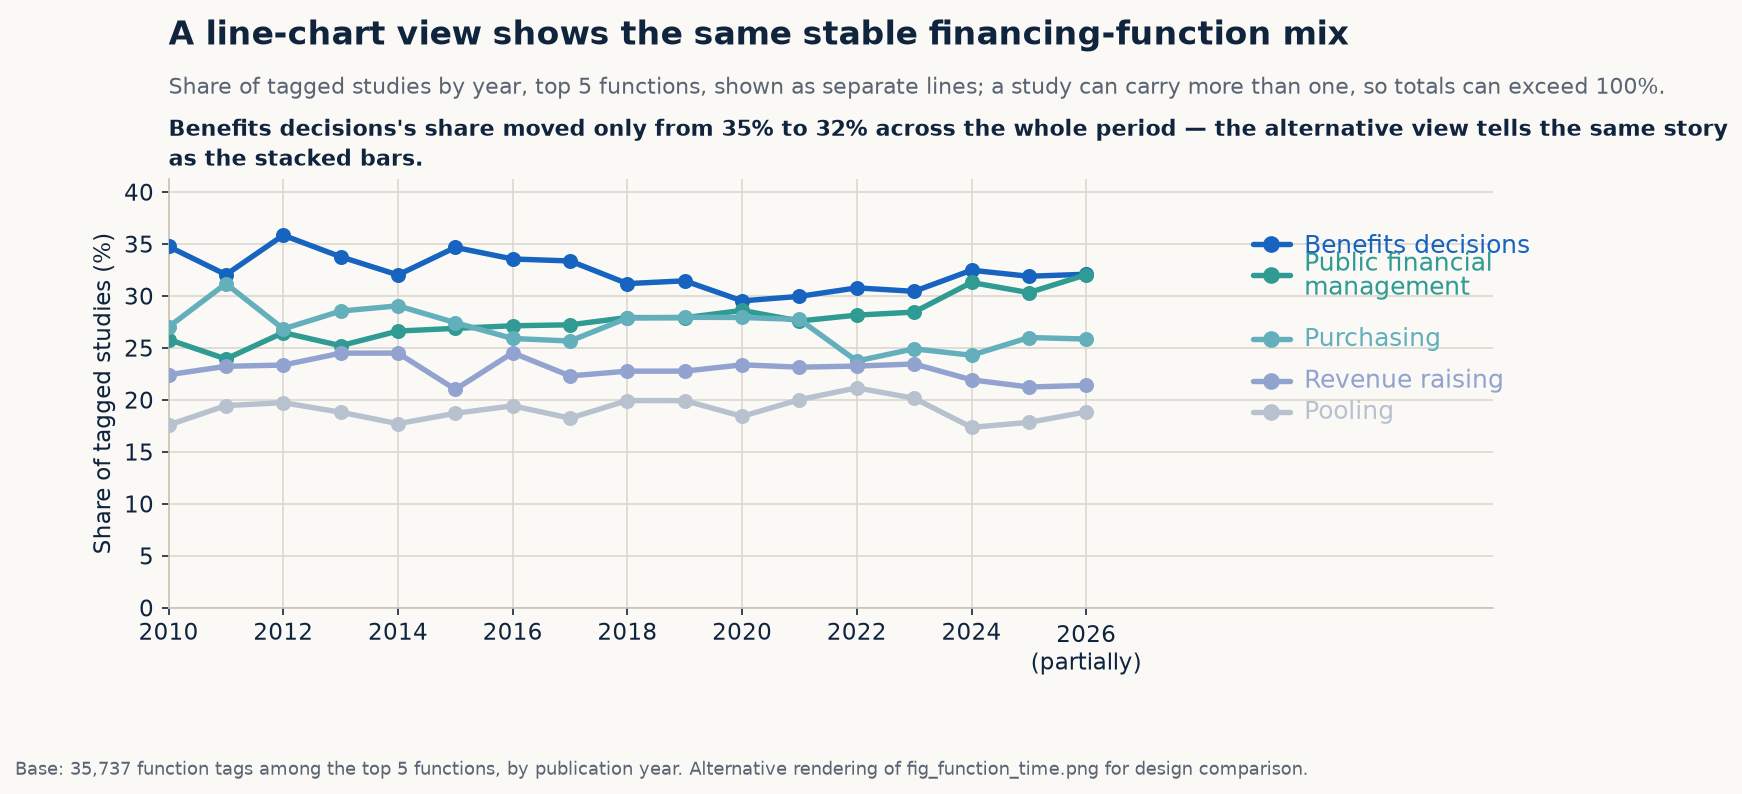
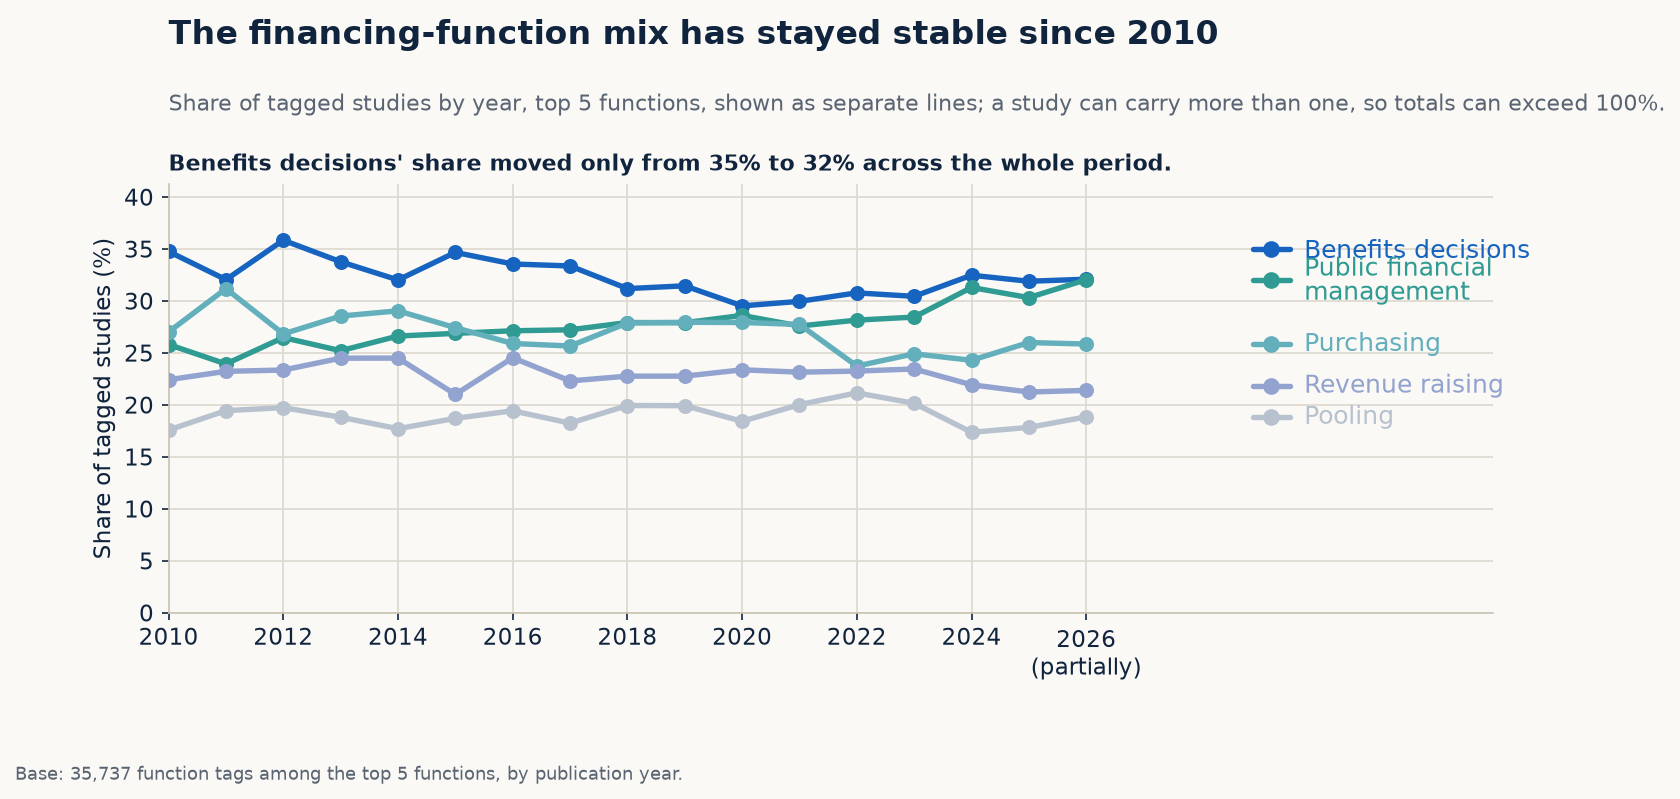
Fix

diff --git a/docs/app.js b/docs/app.js
@@ -1,6 +1,6 @@
 // Cache-busting build token — bump alongside index.html's ?v= query string
 // whenever app.js or the data files change.
-const BUILD = "2026-10-09h";
+const BUILD = "2026-10-09k";
 
 const CODED_COLS = ["study_design", "type_of_analysis", "data_type", "data_source",
   "unit_of_observation", "geo_scope", "era"];
@@ -1279,7 +1279,7 @@ if (typeof document !== "undefined") {
       "Studies with a publication link": () => openOverviewTheme("Open access & author countries"),
       "Evidence available open access": () => openOverviewTheme("Open access & author countries"),
       "Who funds the evidence?": () => openOverviewTheme("Funders, fragility & outcomes"),
-      "Studies focused on one country": () => switchTab("explorer")
+      "Studies focused on one country": () => openOverviewTheme("Geographic coverage")
     };
     const action = actions[label];
     if (!action) return;
@@ -1365,6 +1365,39 @@ if (typeof document !== "undefined") {
     const note = el("div", "analysis-approach-note");
     note.textContent = unclearPct.toFixed(1) + "% could not be classified.";
     box.append(bar, metrics, note);
+  }
+
+  // "Geographic scope of studies" card: shared by the Overview tile and the
+  // Geographic coverage section of Thematic analysis.
+  function fillGeoScopeCard(box) {
+    box.classList.add("geo-scope-card");
+    const title = el("div", "value-box-title");
+    title.textContent = "Geographic scope of studies";
+    box.appendChild(title);
+
+    const levels = db.levels.geo_scope;
+    const singleCode = levels.indexOf("Single country");
+    const scopes = db.studies.geo_scope;
+    const singleN = scopes.filter(code => code === singleCode).length;
+    const singlePct = 100 * singleN / Math.max(1, scopes.length);
+    const otherPct = 100 - singlePct;
+
+    const bar = el("div", "geo-scope-bar");
+    const single = el("div", "geo-scope-segment geo-scope-single");
+    single.style.width = singlePct + "%";
+    single.textContent = Math.round(singlePct) + "%";
+    const other = el("div", "geo-scope-segment geo-scope-other");
+    other.style.width = otherPct + "%";
+    other.textContent = Math.round(otherPct) + "%";
+    bar.append(single, other);
+
+    const labels = el("div", "geo-scope-labels");
+    const singleLabel = el("div");
+    singleLabel.innerHTML = "<strong>Single-country</strong><span>One country examined</span>";
+    const otherLabel = el("div");
+    otherLabel.innerHTML = "<strong>Other geographic scope</strong><span>14.2% multi-country or regional/global; 4.5% no country stated</span>";
+    labels.append(singleLabel, otherLabel);
+    box.append(bar, labels);
   }
 
   function renderOverview() {
@@ -1502,34 +1535,7 @@ if (typeof document !== "undefined") {
         continue;
       }
       if (display.label === "Studies focused on one country") {
-        box.classList.add("geo-scope-card");
-        const title = el("div", "value-box-title");
-        title.textContent = "Geographic scope of studies";
-        box.appendChild(title);
-
-        const levels = db.levels.geo_scope;
-        const singleCode = levels.indexOf("Single country");
-        const scopes = db.studies.geo_scope;
-        const singleN = scopes.filter(code => code === singleCode).length;
-        const singlePct = 100 * singleN / Math.max(1, scopes.length);
-        const otherPct = 100 - singlePct;
-
-        const bar = el("div", "geo-scope-bar");
-        const single = el("div", "geo-scope-segment geo-scope-single");
-        single.style.width = singlePct + "%";
-        single.textContent = Math.round(singlePct) + "%";
-        const other = el("div", "geo-scope-segment geo-scope-other");
-        other.style.width = otherPct + "%";
-        other.textContent = Math.round(otherPct) + "%";
-        bar.append(single, other);
-
-        const labels = el("div", "geo-scope-labels");
-        const singleLabel = el("div");
-        singleLabel.innerHTML = "<strong>Single-country</strong><span>One country examined</span>";
-        const otherLabel = el("div");
-        otherLabel.innerHTML = "<strong>Other geographic scope</strong><span>14.2% multi-country or regional/global; 4.5% no country stated</span>";
-        labels.append(singleLabel, otherLabel);
-        box.append(bar, labels);
+        fillGeoScopeCard(box);
         makeOverviewCardInteractive(box, display.label);
         wrap.appendChild(box);
         continue;
@@ -1617,7 +1623,6 @@ if (typeof document !== "undefined") {
       hovertemplate: "%{x}: %{y:,} studies<extra></extra>"
     }];
     const annotations = [];
-    const partialIndex = years.indexOf(2026);
     if (partialIndex >= 0) {
       traces.push({
         x: [2026], y: [annual[partialIndex]],
@@ -1818,6 +1823,11 @@ if (typeof document !== "undefined") {
     if (sec.title === "Methods & data") {
       const box = el("div", "value-box section-analysis-card");
       fillAnalysisApproachCard(box);
+      extra.appendChild(box);
+    }
+    if (sec.title === "Geographic coverage") {
+      const box = el("div", "value-box section-analysis-card geo-scope-card");
+      fillGeoScopeCard(box);
       extra.appendChild(box);
     }
     if (sec.title === "Financing functions & outcomes") {

diff --git a/docs/index.html b/docs/index.html
@@ -11,7 +11,7 @@
      versions with SHA-384 integrity hashes verified by double fetch. -->
 <link rel="stylesheet" href="https://cdn.jsdelivr.net/npm/tom-select@2.3.1/dist/css/tom-select.min.css" integrity="sha384-krui876Mk6M6Lq6uj1SQo+u4MoImxFwCfwzWNU982QBMNci3VMZ3FoYSdUakJD5I" crossorigin="anonymous">
 <link rel="stylesheet" href="https://cdn.jsdelivr.net/npm/nouislider@15.8.1/dist/nouislider.min.css" integrity="sha384-PSZaVsyG9jDu8hFaSJev5s/9poIJlX7cuxSGdqCgXRHpo2DzIaZAyCd2rG/DJJmV" crossorigin="anonymous">
-<link rel="stylesheet" href="styles.css?v=2026-10-09k">
+<link rel="stylesheet" href="styles.css?v=2026-10-09l">
 </head>
 <body>
 
@@ -703,7 +703,7 @@
 <script src="https://cdn.jsdelivr.net/npm/plotly.js-dist-min@2.35.2/plotly.min.js" integrity="sha384-cCVCZkAjYNxaYKbM8lsArLznDF/SvMFr1jcZrvOpSTCa0W40ZAdLzHCEulnUa5i7" crossorigin="anonymous"></script>
 <script src="https://cdn.jsdelivr.net/npm/tom-select@2.3.1/dist/js/tom-select.complete.min.js" integrity="sha384-cnROoUgVILyibe3J0zhzWoJ9p2WmdnK7j/BOTSWqVDbC1pVw2d+i6Q/1ESKJKCYf" crossorigin="anonymous"></script>
 <script src="https://cdn.jsdelivr.net/npm/nouislider@15.8.1/dist/nouislider.min.js" integrity="sha384-EcVTHT5RdDTvzbTIbNOtaNxNALeJYDgmv5Crp3NBmcdrCPrDnqp6I1+ETJ/FCFHI" crossorigin="anonymous"></script>
-<script type="module" src="app.js?v=2026-10-09p"></script>
+<script type="module" src="app.js?v=2026-10-09r"></script>
 
 </body>
 </html>

diff --git a/docs/styles.css b/docs/styles.css
@@ -582,6 +582,7 @@ main { padding: 1.4rem 1.5rem 2.5rem; max-width: 1500px; margin: 0 auto; }
 }
 .section-analysis-card .analysis-approach-metric span { white-space: nowrap; overflow-wrap: normal; }
 .section-analysis-card .analysis-approach-note { margin-top: .5rem; }
+.value-box.section-analysis-card.geo-scope-card { --tile-accent: #53687d; --tile-bg: #f2f5f7; }
 .fig-grid.fig-grid-single { grid-template-columns: minmax(0, 1fr); max-width: 1180px; }
 /* Wide figures span two columns once the grid is wide enough to hold two
    330px columns; "dense" backfills the gaps they would otherwise leave. */

diff --git a/docs/dex_hff/build_figures_v5.py b/docs/dex_hff/build_figures_v5.py
@@ -823,9 +823,9 @@ for name, col in zip(top5, line_palette):
             fontsize=12.0, fontweight="medium", va="center", ha="left",
             linespacing=1.08, clip_on=False)
 
-set_headline(ax, "A line-chart view shows the same stable financing-function mix",
+set_headline(ax, "The financing-function mix has stayed stable since 2010",
              "Share of tagged studies by year, top 5 functions, shown as separate lines; a study can carry more than one, so totals can exceed 100%.",
-             f"{top_func}'s share moved only from {top_func_share_first:.0f}% to {top_func_share_last:.0f}% across the whole period — the alternative view tells the same story as the stacked bars.",
+             f"{top_func}{chr(39) if top_func.endswith('s') else chr(39) + 's'} share moved only from {top_func_share_first:.0f}% to {top_func_share_last:.0f}% across the whole period.",
              "fig_function_time_lines.png")
 ax.set_ylabel("Share of tagged studies (%)")
 ax.set_xlim(min(years2), max(years2) + 7.1)
@@ -841,7 +841,7 @@ clean_axes(ax)
 ax.grid(axis="both", color="#ddd8cf", linewidth=0.8, zorder=0)
 ax.spines["top"].set_visible(False)
 ax.spines["right"].set_visible(False)
-set_footnote(fig, f"Base: {sum(totals_by_year.values()):,} function tags among the top 5 functions, by publication year. Alternative rendering of fig_function_time.png for design comparison.")
+set_footnote(fig, f"Base: {sum(totals_by_year.values()):,} function tags among the top 5 functions, by publication year.")
 fig.subplots_adjust(left=0.09, right=0.78, top=0.74, bottom=0.18)
 fig.savefig(FIGS / "fig_function_time_lines.png", dpi=150, bbox_inches="tight")
 plt.close(fig)
